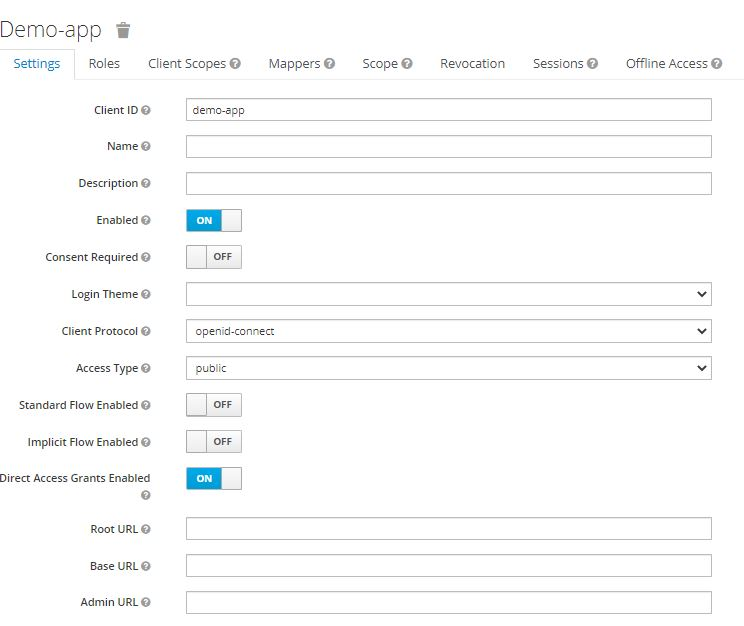
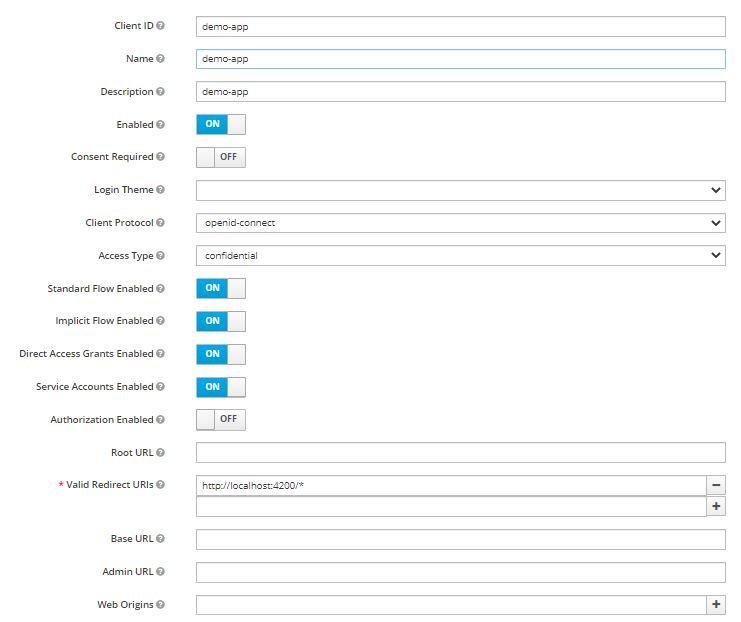
updated readme.

diff --git a/README.md b/README.md
@@ -1,4 +1,4 @@
-# backend-keycloak-with-Asp.Net-Core
+# fullstack-keycloak-with-Asp.Net-Core
 
 ## Install Keycloak.
 
@@ -6,11 +6,50 @@
 docker run -p 8080:8080 -e KEYCLOAK_USER=admin -e KEYCLOAK_PASSWORD=admin quay.io/keycloak/keycloak:11.0.2
 ```
 
+## Documentation
+
+https://www.keycloak.org/docs/latest/getting_started/index.html
+
 ## Create Client in Keycloak.
 
-![](images/create_client.JPG)
+![](images/create_client.JPg)
 
-## Authentication
+## Keycloak´s roles
+
+There are two types of roles in Keycloak, Realm roles and Application roles. Realm roles are roles that are setup at “Realm” level, this is useful if you need to “share” roles across applications boundaries. For example, if you have roles that are global to the company, that’s where you’ll want to add them.
+
+To add realm roles, simply connect to Keycloak’s administrative console, select the role for which you want to setup roles and click on the Roles tab. It will list the current roles available in the realm, click on the Add role button. Add the role name, select save and you will have your new role.
+
+Clients roles, are roles that are available only for one specific client application. This is a very likely scenario, as users that are administrators for one application might be a simple users for another. To add client roles, you need to select the Clients menu, then select the client for which you want to add roles. Select the client that we have created for our application in the previous article. Then, select the Roles tab, you should see an empty list. Click Add role and add a role named Administrators. When you save, you should get to the newly created role details.
+
+## Adding a role to a user
+
+Now, let’s get to the Users menu and map a role to a user. In the users list, search for a user and click on its id to get to its details page. From there, select the Role mapping tab and you should see the realm role that you created at the top. Select the client in the drop down list and you should see the Administrators role that you created earlier.
+Add both roles to the user.
+
+## Adding the role to the access and id tokens
+
+By default, Keycloak doesn’t publish roles to the id and access tokens, but we will need them to authorize our users in the Asp.Net Core API. This is a configuration that we need to do in Keycloak’s client options. Go back to the .Net Core App client options page and select the Mappers tab you should see a number of built-in mappers.
+
+![](images/User_Realm_Roles.jpg)
+![](images/User_Client_Roles.jpg)
+
+## Running
+
+1. Run the api demo.api.bearer
+
+```powershell
+donet run
+```
+
+2. Run the angular-openID-Connect
+
+```powershell
+npm install
+ng s -o
+```
+
+## Authentication from the console and postman
 
 1. Login
 
@@ -60,4 +99,22 @@ curl \
 ```
 
 **References**
-https://www.albertcoronado.com/2020/10/06/identificacion-y-gestion-de-acceso-para-tus-aplicaciones-de-microservicios-con-keycloak-y-oauth2-proxy/
+
+- Guide:
+
+  - https://medium.com/@xavier.hahn/asp-net-core-angular-openid-connect-using-keycloak-6437948c008
+  - https://medium.com/@xavier.hahn/adding-authorization-to-asp-net-core-app-using-keycloak-c6c96ee0e655
+
+- Keycloak.
+
+  - https://www.albertcoronado.com/2020/10/06/identificacion-y-gestion-de-acceso-para-tus-aplicaciones-de-microservicios-con-keycloak-y-oauth2-proxy/
+
+- Asp.net Core examples:
+
+  - **https://github.com/vip32/aspnetcore-keycloak**
+  - **https://github.com/thomasdarimont/kc-dnc-demo**
+  - **https://github.com/vmaleze/keycloak-dotnetcore**
+  - https://github.com/rafaelfgx/Microservices
+  - https://github.com/Fosol/keycloak-react
+  - https://github.com/gastonsilva/Keycloak_Example_NetCore.Api1
+  - https://github.com/juandepalo/Keycloak-aspnetcore
